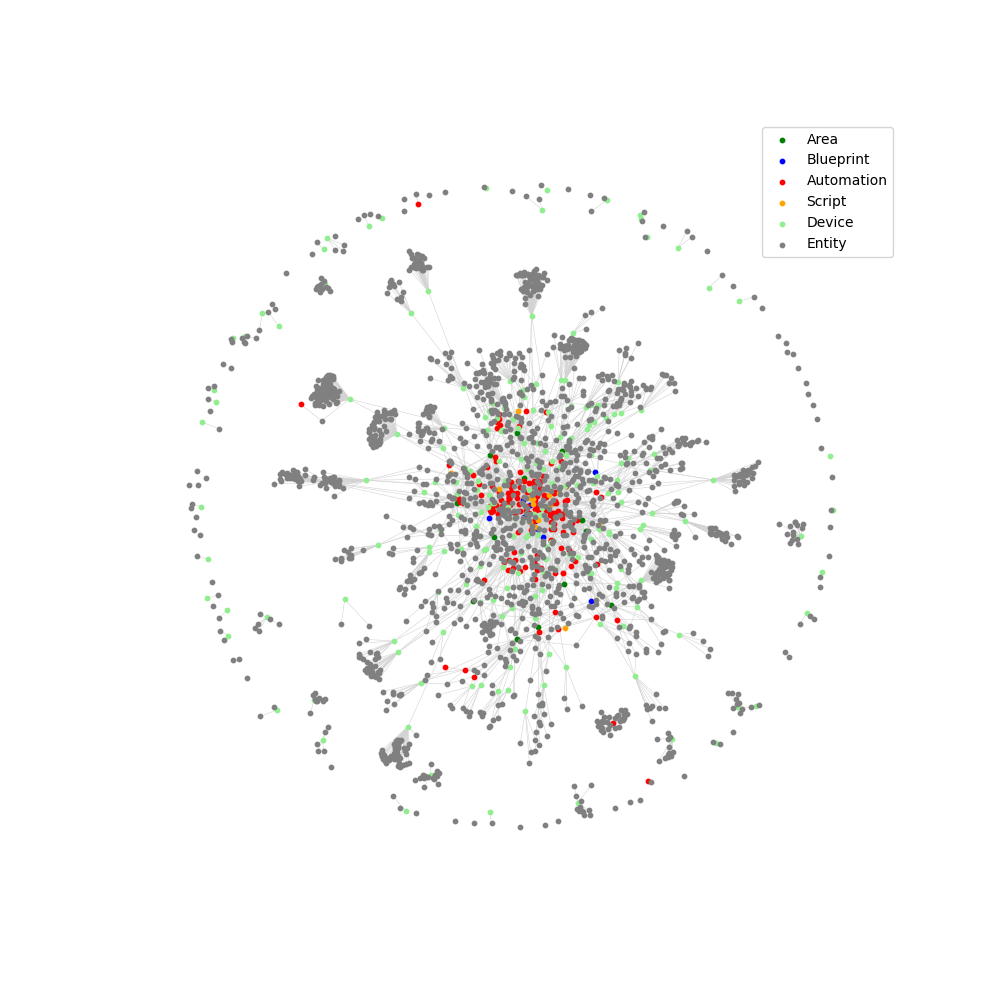
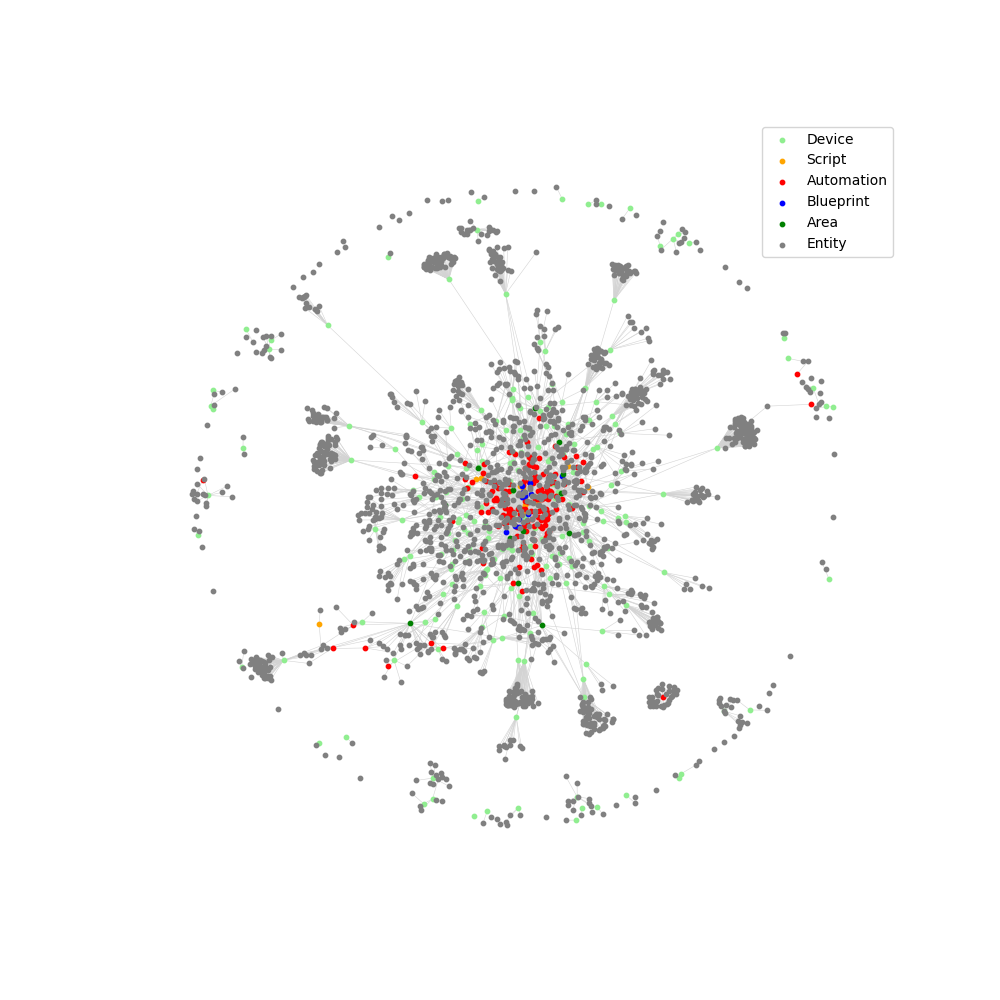
Use larger blinds in Living and Dining Rooms

diff --git a/custom_components/philips_shaver/www/philips_shaver_card.js b/custom_components/philips_shaver/www/philips_shaver_card.js
@@ -646,7 +646,7 @@ function $d8078e452c66bdbe$export$625550452a3fa3ec(hass, key) {
 
 
 // Written by the release sync script (philips_shaver scripts/sync_card.sh).
-const $8ee5ce714273e53b$export$d5e7ce6d07daf10f = "0.18.0";
+const $8ee5ce714273e53b$export$d5e7ce6d07daf10f = "0.20.0";
 const $8ee5ce714273e53b$export$9b657414b7dffe40 = "bundled";
 
 
@@ -1586,7 +1586,27 @@ if ($5b8472df96c6a1cc$var$winner) {
         type: $5b8472df96c6a1cc$var$TAG,
         name: "Philips Shaver Card",
         description: "Custom card for the Philips Shaver integration with pressure gauge, battery, and diagnostics.",
-        preview: true
+        preview: true,
+        // Card picker suggestion (HA 2026.6+): suggest this card for any
+        // philips_shaver entity. The picked entity may sit on a sub-device
+        // (e.g. Connection), so normalize to the device owning the battery
+        // entity within the same config entry — same shape as getStubConfig.
+        getEntitySuggestion: (hass, entityId)=>{
+            const entity = hass.entities?.[entityId];
+            if (!entity || entity.platform !== "philips_shaver") return null;
+            const devices = hass.devices || {};
+            const entryIds = devices[entity.device_id]?.config_entries || [];
+            const main = Object.values(hass.entities).find((e)=>e.platform === "philips_shaver" && e.translation_key === "battery" && (e.device_id === entity.device_id || (devices[e.device_id]?.config_entries || []).some((ce)=>entryIds.includes(ce))));
+            const deviceId = (main ?? entity).device_id;
+            // setConfig rejects a falsy device_id — better no suggestion than
+            // one whose preview renders an error card.
+            return deviceId ? {
+                config: {
+                    type: `custom:${$5b8472df96c6a1cc$var$TAG}`,
+                    device_id: deviceId
+                }
+            } : null;
+        }
     });
     console.info(`%c PHILIPS-SHAVER-CARD %c v${(0, $8ee5ce714273e53b$export$d5e7ce6d07daf10f)} [${(0, $8ee5ce714273e53b$export$9b657414b7dffe40)}] `, "color:#fff;background:#1c1c1c;padding:2px 6px;border-radius:4px 0 0 4px;font-weight:700", "color:#1c1c1c;background:#ffab40;padding:2px 6px;border-radius:0 4px 4px 0;font-weight:700");
 }

diff --git a/custom_components/philips_shaver/sensor.py b/custom_components/philips_shaver/sensor.py
@@ -54,6 +54,7 @@ async def async_setup_entry(
         # PhilipsMotorRpmMinSensor(coordinator, entry),  # not present on all models, no known use
         PhilipsModelNumberSensor(coordinator, entry),
         PhilipsTotalAgeSensor(coordinator, entry),
+        PhilipsTotalRunningMotorSensor(coordinator, entry),
     ]
 
     # Handle Load Type requires Control Service (0x0300)
@@ -1087,13 +1088,21 @@ class PhilipsShaverPressureStateSensor(PhilipsShaverEntity, SensorEntity):
 # Total Age Sensor
 # =============================================================================
 class PhilipsTotalAgeSensor(PhilipsShaverEntity, SensorEntity):
-    """Sensor for the total device age (operating seconds)."""
+    """Device age in seconds (0x0106).
+
+    Despite earlier assumptions this is NOT operating time: the firmware
+    only updates it on rare events (factory boot / firmware flash) and it
+    stays static — or permanently 0 — through normal use on most models.
+    Kept default-disabled; see PhilipsTotalRunningMotorSensor for the
+    actual motor runtime.
+    """
 
     _attr_translation_key = "total_age"
     _attr_native_unit_of_measurement = UnitOfTime.SECONDS
     _attr_device_class = SensorDeviceClass.DURATION
     _attr_state_class = SensorStateClass.TOTAL_INCREASING
     _attr_entity_category = EntityCategory.DIAGNOSTIC
+    _attr_entity_registry_enabled_default = False
     _attr_icon = "mdi:history"
 
     def __init__(
@@ -1118,6 +1127,34 @@ class PhilipsTotalAgeSensor(PhilipsShaverEntity, SensorEntity):
         minutes = (seconds % 3600) // 60
 
         return {"formatted_age": f"{days}d {hours}h {minutes}m", "raw_seconds": seconds}
+
+
+# =============================================================================
+# Total Motor Runtime Sensor
+# =============================================================================
+class PhilipsTotalRunningMotorSensor(PhilipsShaverEntity, SensorEntity):
+    """Cumulative motor runtime in minutes (0x0112, uint16 LE).
+
+    Increments with actual motor use. Not present on all models — the
+    poll read then resolves to None and the sensor stays unknown.
+    """
+
+    _attr_translation_key = "total_running_motor"
+    _attr_native_unit_of_measurement = UnitOfTime.MINUTES
+    _attr_device_class = SensorDeviceClass.DURATION
+    _attr_state_class = SensorStateClass.TOTAL_INCREASING
+    _attr_entity_category = EntityCategory.DIAGNOSTIC
+    _attr_icon = "mdi:engine"
+
+    def __init__(
+        self, coordinator: PhilipsShaverCoordinator, entry: ConfigEntry
+    ) -> None:
+        super().__init__(coordinator, entry)
+        self._attr_unique_id = f"{self._device_id}_total_running_motor"
+
+    @property
+    def native_value(self) -> int | None:
+        return self.coordinator.data.get("total_running_motor")
 
 
 # =============================================================================

diff --git a/custom_components/philips_shaver/const.py b/custom_components/philips_shaver/const.py
@@ -451,6 +451,22 @@ CHAR_HISTORY_RPM = "8d560208-3cb9-4387-a7e8-b79d826a7025"
 """
 CHAR_TOTAL_AGE = "8d560106-3cb9-4387-a7e8-b79d826a7025"
 
+# Total motor runtime
+"""
+	Unknown Characteristic
+	UUID: 8d560112-3cb9-4387-a7e8-b79d826a7025
+	Properties: NOTIFY, READ
+	Value: (0x) 42-00
+	Descriptors:
+	Client Characteristic Configuration
+	UUID: 0x2902
+
+	uint16 LE, minutes. Unlike 0x0106 (device age, static on most models)
+	this actually increments with motor use. Not present on all models —
+	reads resolve as not_found/None and the sensor stays unknown.
+"""
+CHAR_TOTAL_RUNNING_MOTOR = "8d560112-3cb9-4387-a7e8-b79d826a7025"
+
 # Shaver capabilities
 """
 	Unknown Characteristic => SMART_SHAVER_CHARACTERISTIC_CAPABILITY
@@ -492,6 +508,7 @@ POLL_READ_CHARS = [
     CHAR_CUSTOM_SHAVING_MODE_SETTINGS,
     # CHAR_PRESSURE,
     CHAR_TOTAL_AGE,
+    CHAR_TOTAL_RUNNING_MOTOR,
     CHAR_HANDLE_LOAD_TYPE,
     CHAR_MOTION_TYPE,
     CHAR_APP_HANDLE_SETTINGS,
@@ -586,6 +603,7 @@ CHAR_SERVICE_MAP: dict[str, str] = {
     CHAR_MOTOR_RPM_MAX: SVC_PLATFORM,
     CHAR_MOTOR_RPM_MIN: SVC_PLATFORM,
     CHAR_TOTAL_AGE: SVC_PLATFORM,
+    CHAR_TOTAL_RUNNING_MOTOR: SVC_PLATFORM,
     CHAR_AMOUNT_OF_OPERATIONAL_TURNS: SVC_PLATFORM,
     CHAR_DAYS_SINCE_LAST_USED: SVC_PLATFORM,
     CHAR_AMOUNT_OF_CHARGES: SVC_PLATFORM,

diff --git a/custom_components/philips_shaver/transport.py b/custom_components/philips_shaver/transport.py
@@ -597,7 +597,16 @@ class EspBridgeTransport(ShaverTransport):
                 _LOGGER.debug("ESP read error for %s: %s", uuid, error)
                 return
 
-            if not uuid or not payload_hex:
+            if not uuid:
+                return
+
+            if not payload_hex:
+                # A successful read of an empty value (0-byte payload, no
+                # error field) — e.g. a blank Device Information string.
+                # Resolve the waiters with None instead of dropping the
+                # event, which would leave them running into the read
+                # timeout and stall every poll on affected characteristics.
+                self._resolve_pending_reads(uuid, None)
                 return
 
             if mac and not self._detected_mac:

diff --git a/custom_components/philips_shaver/coordinator.py b/custom_components/philips_shaver/coordinator.py
@@ -69,6 +69,7 @@ from .const import (
     CHAR_SERIAL_NUMBER,
     CHAR_SHAVING_TIME,
     CHAR_TOTAL_AGE,
+    CHAR_TOTAL_RUNNING_MOTOR,
     CHAR_TRAVEL_LOCK,
     CHAR_SHAVING_MODE,
     CHAR_SHAVING_MODE_SETTINGS,
@@ -507,6 +508,10 @@ class PhilipsShaverCoordinator(DataUpdateCoordinator[dict[str, Any]]):
         if raw := results.get(CHAR_TOTAL_AGE):
             total_age_value = int.from_bytes(raw, "little")
             new_data["total_age"] = total_age_value
+
+        # Total motor runtime (uint16 LE, minutes)
+        if raw := results.get(CHAR_TOTAL_RUNNING_MOTOR):
+            new_data["total_running_motor"] = int.from_bytes(raw, "little")
 
         # Handle Load Type
         if raw := results.get(CHAR_HANDLE_LOAD_TYPE):

diff --git a/README.md b/README.md
@@ -26,12 +26,12 @@ Domain | Quantity
 [`assist_satellite`](https://www.home-assistant.io/components/assist_satellite) | 2
 [`automation`](https://www.home-assistant.io/components/automation) | 149
 [`binary_sensor`](https://www.home-assistant.io/components/binary_sensor) | 183
-[`button`](https://www.home-assistant.io/components/button) | 192
+[`button`](https://www.home-assistant.io/components/button) | 190
 [`calendar`](https://www.home-assistant.io/components/calendar) | 7
 [`camera`](https://www.home-assistant.io/components/camera) | 8
 [`climate`](https://www.home-assistant.io/components/climate) | 6
 [`conversation`](https://www.home-assistant.io/components/conversation) | 1
-[`cover`](https://www.home-assistant.io/components/cover) | 16
+[`cover`](https://www.home-assistant.io/components/cover) | 14
 [`device_tracker`](https://www.home-assistant.io/components/device_tracker) | 2
 [`event`](https://www.home-assistant.io/components/event) | 3
 [`fan`](https://www.home-assistant.io/components/fan) | 6
@@ -53,18 +53,18 @@ Domain | Quantity
 [`remote`](https://www.home-assistant.io/components/remote) | 3
 [`script`](https://www.home-assistant.io/components/script) | 14
 [`select`](https://www.home-assistant.io/components/select) | 68
-[`sensor`](https://www.home-assistant.io/components/sensor) | 799
+[`sensor`](https://www.home-assistant.io/components/sensor) | 794
 [`stt`](https://www.home-assistant.io/components/stt) | 1
 [`sun`](https://www.home-assistant.io/components/sun) | 1
-[`switch`](https://www.home-assistant.io/components/switch) | 76
+[`switch`](https://www.home-assistant.io/components/switch) | 74
 [`text`](https://www.home-assistant.io/components/text) | 33
 [`tts`](https://www.home-assistant.io/components/tts) | 1
-[`update`](https://www.home-assistant.io/components/update) | 115
+[`update`](https://www.home-assistant.io/components/update) | 113
 [`vacuum`](https://www.home-assistant.io/components/vacuum) | 1
 [`wake_word`](https://www.home-assistant.io/components/wake_word) | 1
 [`weather`](https://www.home-assistant.io/components/weather) | 1
 [`zone`](https://www.home-assistant.io/components/zone) | 16
-Total | 1984
+Total | 1971
 
 ## Core Integrations
 - [AdGuard](https://home-assistant.io/integrations/adguard)